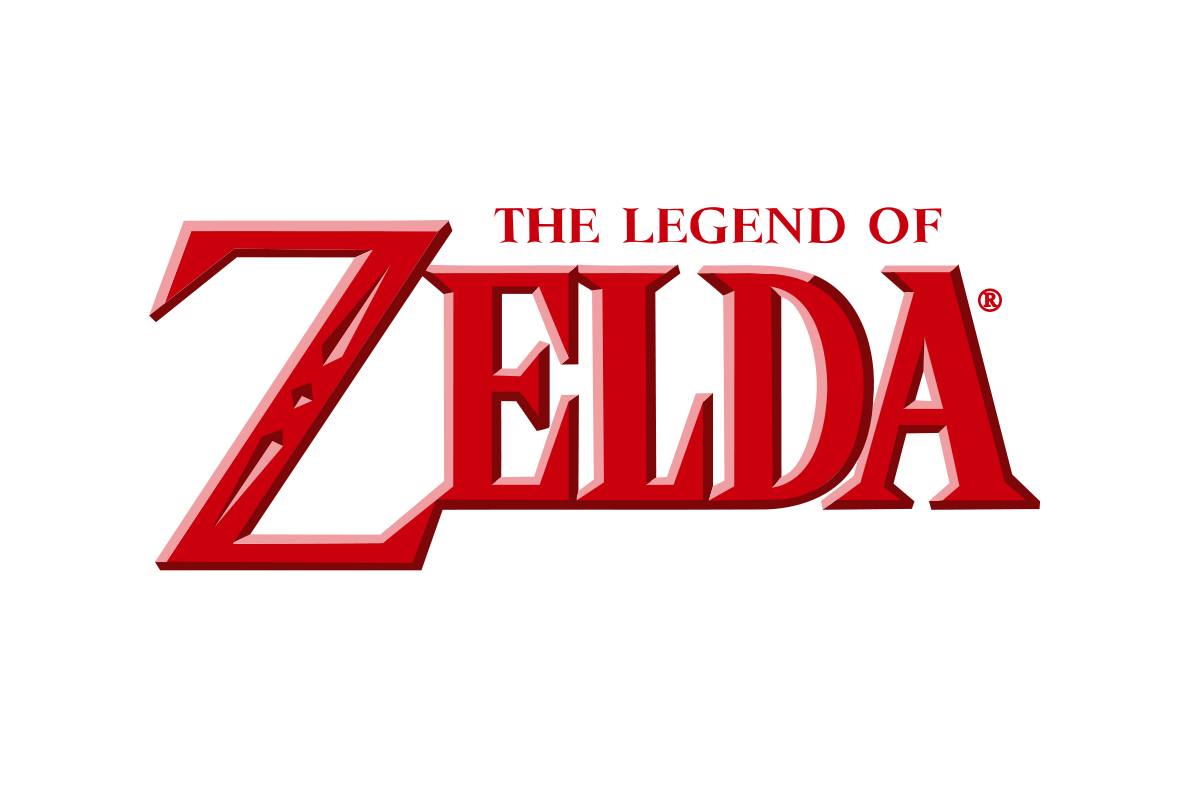
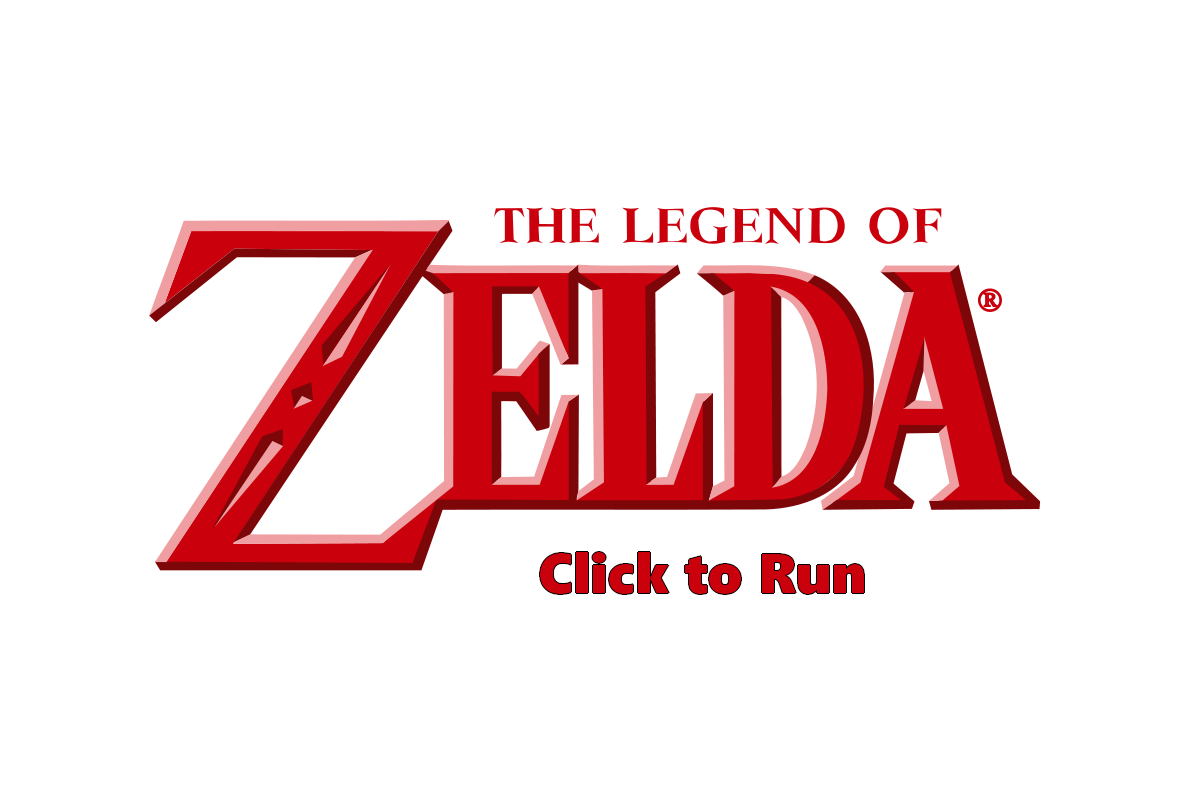
Menu

Changed region(s): [[0.4317, 0.6875, 0.74, 0.75]]

diff --git a/core/src/fr/zeldalike/screens/Menu.java b/core/src/fr/zeldalike/screens/Menu.java
@@ -1,0 +1,110 @@
+package fr.zeldalike.screens;
+
+import com.badlogic.gdx.Game;
+import com.badlogic.gdx.Gdx;
+import com.badlogic.gdx.Screen;
+import com.badlogic.gdx.graphics.Color;
+import com.badlogic.gdx.graphics.GL20;
+import com.badlogic.gdx.graphics.OrthographicCamera;
+import com.badlogic.gdx.graphics.Texture;
+import com.badlogic.gdx.graphics.g2d.BitmapFont;
+import com.badlogic.gdx.graphics.g2d.SpriteBatch;
+import com.badlogic.gdx.scenes.scene2d.Stage;
+import com.badlogic.gdx.scenes.scene2d.ui.Label;
+import com.badlogic.gdx.scenes.scene2d.ui.Table;
+import com.badlogic.gdx.utils.viewport.FitViewport;
+import com.badlogic.gdx.utils.viewport.Viewport;
+
+import fr.zeldalike.assets.Constants;
+import fr.zeldalike.game.Main;
+
+public class Menu implements Screen {
+	// **************************************************
+	// Fields
+	// **************************************************
+	private Viewport viewport;
+	private Stage stage;
+	private Texture texture;
+	private SpriteBatch batch;
+	// Game variable
+	private Game game;
+	
+	// **************************************************
+	// Constructors
+	// **************************************************
+	/**
+	 * Initialize the menu game, animations and his texture.
+	 */
+	public Menu(Game game) {
+		this.game = game;
+		this.batch = new SpriteBatch();
+		this.viewport = new FitViewport(Constants.V_WIDTH, Constants.V_HEIGHT, new OrthographicCamera());
+		this.stage= new Stage(this.viewport, ((Main)game).batch);
+		
+		this.texture = new Texture(Gdx.files.internal("Menu/ZeldaLikePres2.png"));
+		Label.LabelStyle font = new Label.LabelStyle(new BitmapFont(), Color.RED);
+		
+		Table table = new Table();
+		table.center();
+		table.setFillParent(true);
+		
+		Label menuLabel = new Label("MENU", font);
+		Label playGameLabel = new Label("Click to Run", font);
+		
+		table.add(menuLabel).expandX();
+		table.row();
+		table.add(playGameLabel).expandX().padTop(10);
+		
+		this.stage.addActor(table);
+	}
+	
+	// **************************************************
+	// Public Methods
+	// **************************************************
+	@Override
+	public void show() {
+
+	}
+
+	@Override
+	public void render(float delta) {
+		
+		Gdx.gl.glClearColor(0, 0, 0, 1);
+		Gdx.gl.glClear(GL20.GL_COLOR_BUFFER_BIT);
+		
+		this.batch.begin();
+		this.batch.draw(this.texture, 0, 0);
+		this.batch.end();
+		
+		if(Gdx.input.justTouched()){
+			this.game.setScreen(new PlayScreen((Main)this.game));
+			
+			this.dispose();
+		}
+	}
+
+	@Override
+	public void resize(int width, int height) {
+
+	}
+
+	@Override
+	public void pause() {
+
+	}
+
+	@Override
+	public void resume() {
+
+	}
+
+	@Override
+	public void hide() {
+
+	}
+
+	@Override
+	public void dispose() {
+		this.stage.dispose();
+	}
+}

diff --git a/core/src/fr/zeldalike/game/Main.java b/core/src/fr/zeldalike/game/Main.java
@@ -3,7 +3,7 @@ package fr.zeldalike.game;
 import com.badlogic.gdx.Game;
 import com.badlogic.gdx.graphics.g2d.SpriteBatch;
 
-import fr.zeldalike.screens.PlayScreen;
+import fr.zeldalike.screens.Menu;
 import fr.zeldalike.tools.MusicLoader;
 
 public class Main extends Game {
@@ -13,17 +13,17 @@ public class Main extends Game {
 	
 	@Override
 	public void create () {
-		batch = new SpriteBatch();
-		music = new MusicLoader();
+		this.batch = new SpriteBatch();
+		this.music = new MusicLoader();
 		
-		music.loadMusic();
+		this.music.loadMusic();
 		
-		setScreen(new PlayScreen(this));
+		setScreen(new Menu(this));
 	}
 
 	@Override
 	public void render () {
 		super.render();
-		music.update();
+		this.music.update();
 	}
 }
